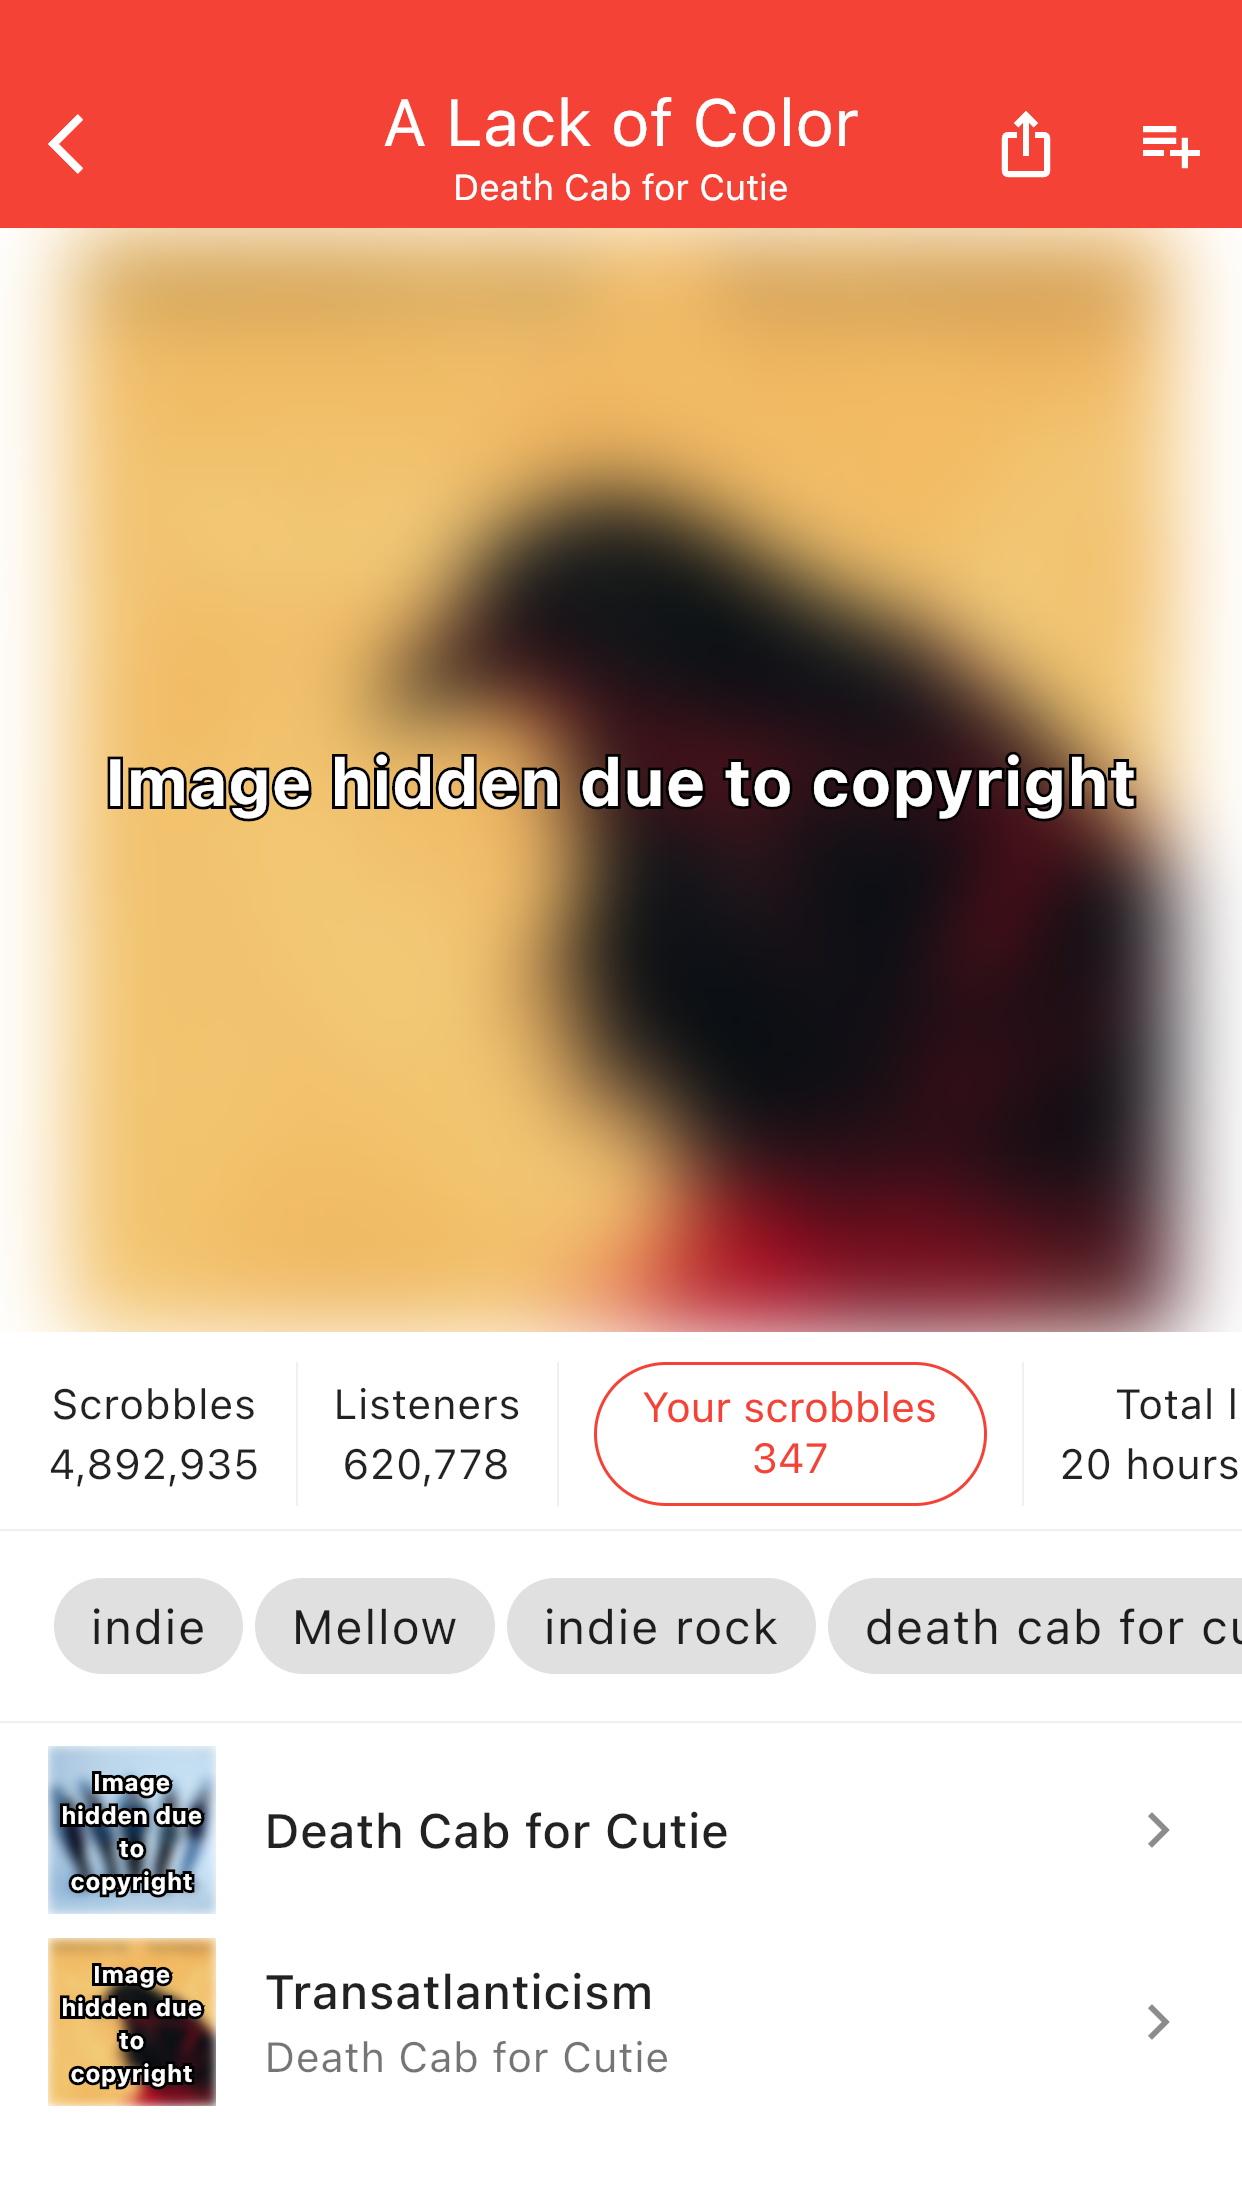
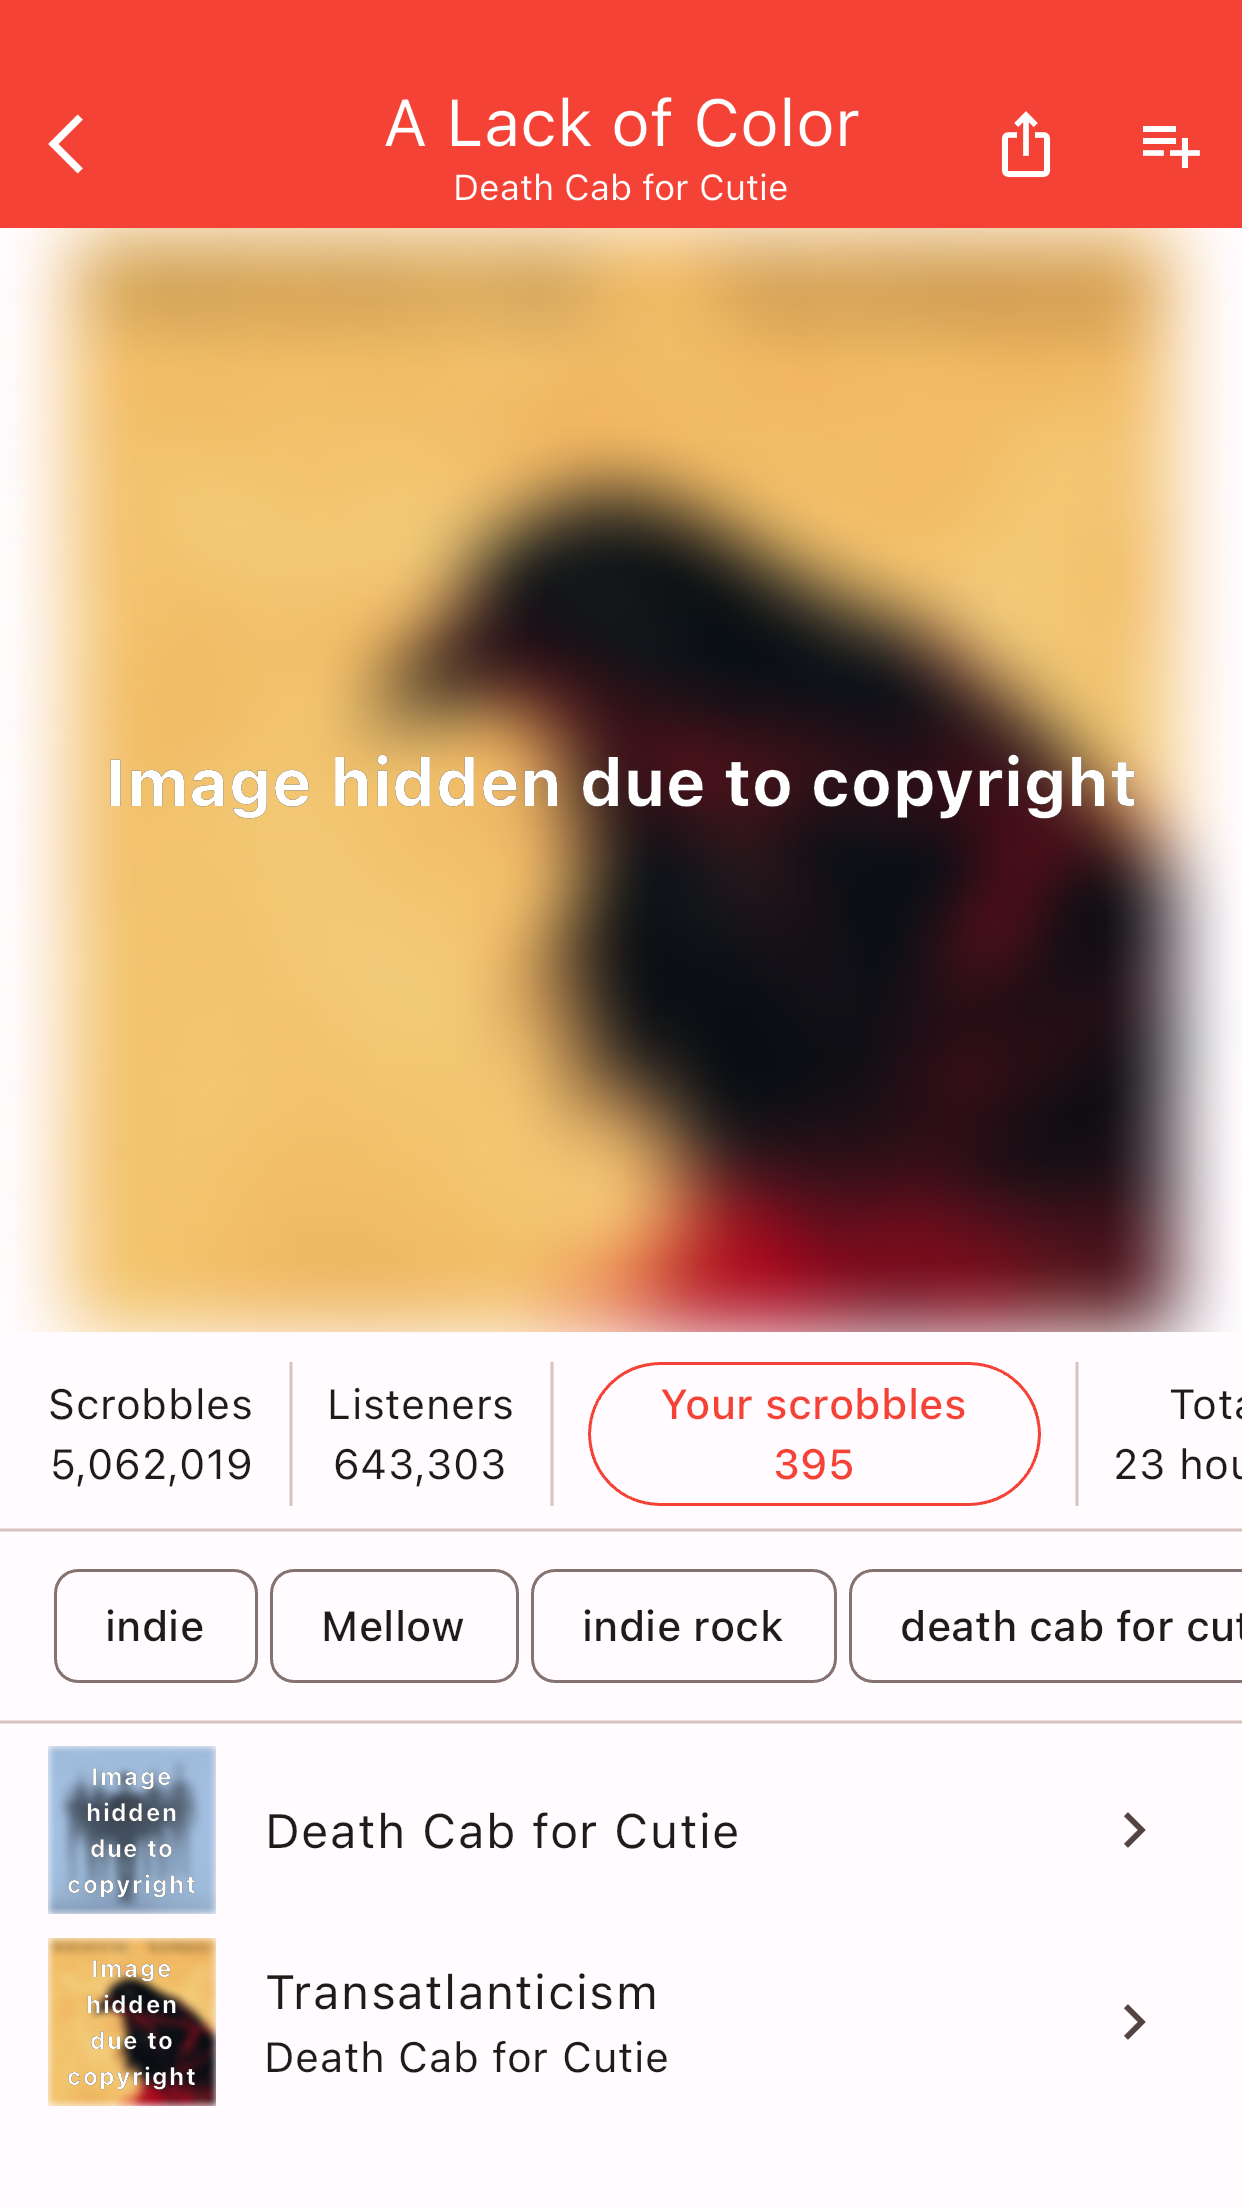
Updated devices and screenshots

diff --git a/lib/widgets/entity/entity_image.dart b/lib/widgets/entity/entity_image.dart
@@ -49,8 +49,6 @@ class _EntityImageState extends State<EntityImage> {
       ? PlaceholderBehavior.active
       : widget.placeholderBehavior;
 
-  bool get _shouldAnimate => isScreenshotTest ? false : widget.shouldAnimate;
-
   Future<void> _fetchImageId() async {
     if (widget.entity.imageData != null) {
       return;
@@ -110,12 +108,9 @@ class _EntityImageState extends State<EntityImage> {
       return widget.isCircular ? _buildCircularImage(image) : image;
     }
 
-    final placeholder = switch (_placeholderBehavior) {
-      PlaceholderBehavior.image =>
-        _Placeholder(widget.entity, widget.quality, widget.width),
-      PlaceholderBehavior.active => const CircularProgressIndicator(),
-      PlaceholderBehavior.none => const SizedBox(),
-    };
+    final placeholder = _placeholderBehavior == PlaceholderBehavior.none
+        ? const SizedBox()
+        : _Placeholder(widget.entity, widget.quality, widget.width);
 
     if (_imageId == null) {
       if (!_isLoading) {
@@ -133,16 +128,18 @@ class _EntityImageState extends State<EntityImage> {
           widget.onLoaded?.call();
           return child;
         },
-        placeholderBuilder: (_) => placeholder,
+        placeholderBuilder: (_) =>
+            _placeholderBehavior == PlaceholderBehavior.active
+                ? const CircularProgressIndicator()
+                : placeholder,
         errorBuilder: (_, error, stackTrace) {
           FlutterError.dumpErrorToConsole(FlutterErrorDetails(
               exception: error, stack: stackTrace, library: 'EntityImage'));
           widget.onLoaded?.call();
           return placeholder;
         },
-        fadeOutDuration: _shouldAnimate ? null : Duration.zero,
-        fadeInDuration: _shouldAnimate ? null : Duration.zero,
-        placeholderFadeInDuration: _shouldAnimate ? null : Duration.zero,
+        fadeOutDuration: widget.shouldAnimate ? null : Duration.zero,
+        fadeInDuration: widget.shouldAnimate ? null : Duration.zero,
         fit: widget.fit,
       ),
     );

diff --git a/integration_test/screenshot_test.dart b/integration_test/screenshot_test.dart
@@ -82,7 +82,7 @@ Future<void> main() async {
 
   testWidgets('Scrobble screen', (tester) async {
     await pumpWidget(tester, const MainView(username: testName));
-    await tester.tap(find.byIcon(scrobbleIcon).at(1));
+    await tester.tap(find.byIcon(scrobbleIcon));
     await tester.pumpAndSettle();
 
     await tester.tap(find.text('Custom timestamp', skipOffstage: !isAndroid),
